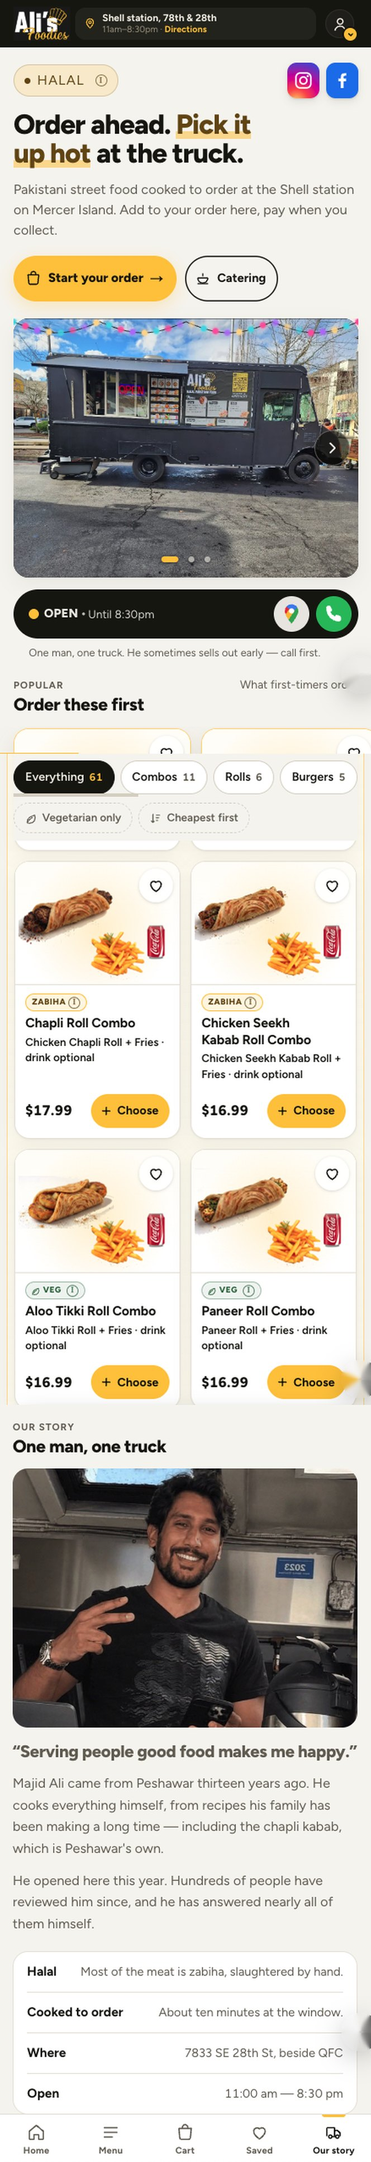
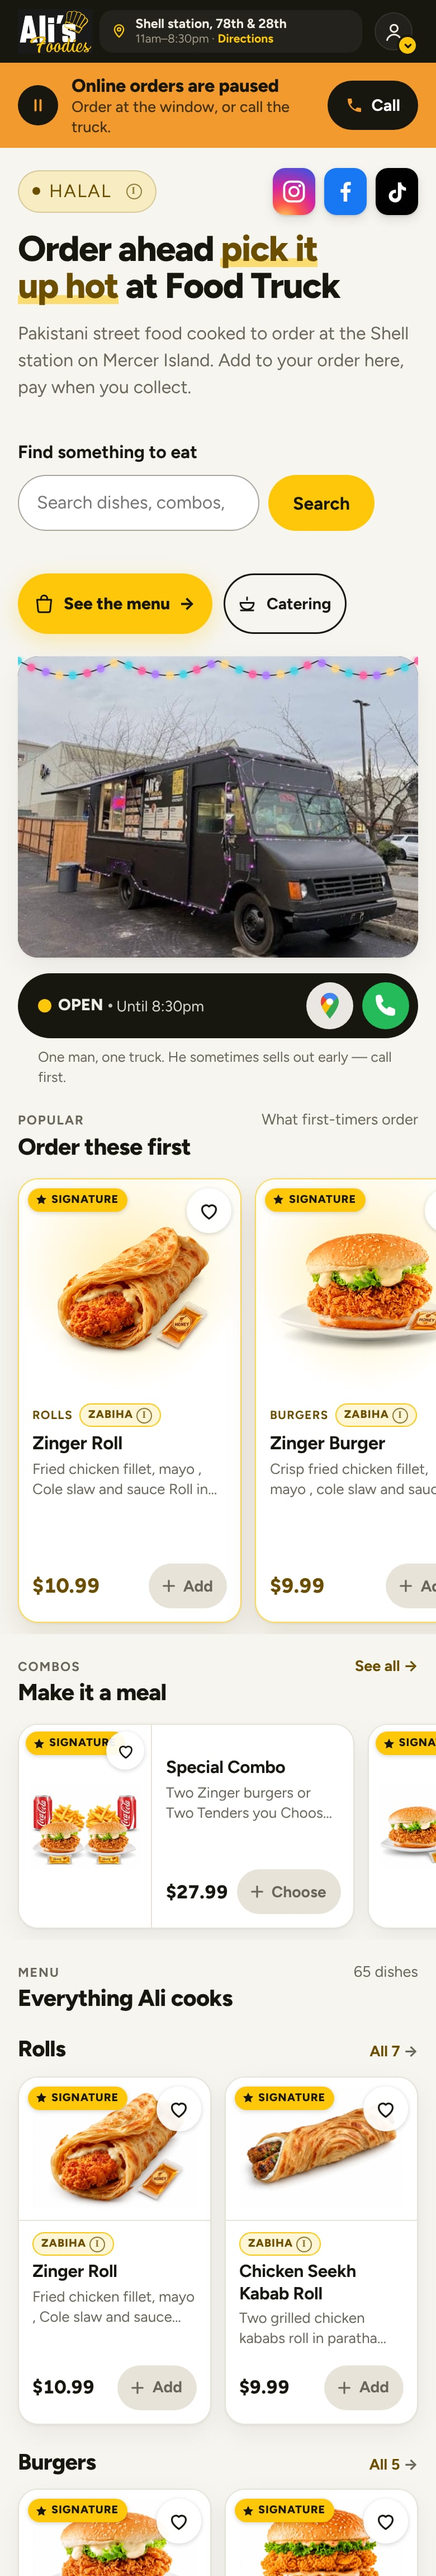
fix: recapture Ali's Foodies so no bar floats over the page
The old 'after' capture had the site's category bar painted over the
'Order these first' cards. The live site has since been fixed, so this
takes a fresh capture from alifoodies.com.

The site keeps a top bar and a bottom tab bar fixed on screen, which a
full-page capture would paint mid-page. The tab bar is now captured on
its own and the phone pins both bars while the page moves under them,
as on a real phone. The Before/After labels move above the phone so
they no longer cover the site's header. scripts/capture-ali.mjs repeats
the capture.

Claude-Session: https://claude.ai/code/session_014NT5UA3ue3Kua5hDFAEi89

diff --git a/content/studio.ts b/content/studio.ts
@@ -31,10 +31,10 @@ export const hero = {
   role: "Web design & marketing",
   /** Small labels that drift around the portrait. */
   chips: ["Web design", "Local SEO", "Social media", "Google Ads"],
-  /** Real work shown as the two cards behind the portrait. */
+  /** Real work shown as the two cards behind the portrait. `at` is how far down the capture the card looks. */
   fan: [
-    { src: "/images/ali-foodies/compare/after-home.jpg", width: 664, height: 3861 },
-    { src: "/images/tututor/mobile/alumnos-home.jpg", width: 720, height: 1557 },
+    { src: "/images/ali-foodies/compare/after-home.jpg", width: 780, height: 4600, at: "9%" },
+    { src: "/images/tututor/mobile/alumnos-home.jpg", width: 720, height: 1557, at: "0%" },
   ],
 };
 
@@ -263,7 +263,19 @@ export const compare = {
   place: "Food truck · Mercer Island, Washington",
   text: "Same truck, same food. Now the first thing a hungry customer sees is how to order.",
   before: { src: "/images/ali-foodies/compare/before-home.jpg", width: 664, height: 4032, label: "Before" },
-  after: { src: "/images/ali-foodies/compare/after-home.jpg", width: 664, height: 3861, label: "After" },
+  /**
+   * Captured from the live site with scripts/capture-ali.mjs. The site keeps its top bar and its bottom
+   * tab bar fixed on screen, so the phone pins them too: `head` is the height of the top bar in the
+   * capture, and `nav` is the tab bar, captured on its own.
+   */
+  after: {
+    src: "/images/ali-foodies/compare/after-home.jpg",
+    width: 780,
+    height: 4600,
+    label: "After",
+    head: 112,
+    nav: { src: "/images/ali-foodies/compare/after-nav.png", width: 780, height: 126 },
+  },
   hint: "Drag the handle",
 };
 

diff --git a/components/compare.tsx b/components/compare.tsx
@@ -88,6 +88,10 @@ export function Compare() {
           </p>
         </div>
         <div className="ba-wrap" data-reveal="right">
+          <p className="ba__labels" aria-hidden="true">
+            <span>{compare.before.label}</span>
+            <span>{compare.after.label}</span>
+          </p>
           <div
             className="ba"
             ref={frame}
@@ -115,9 +119,24 @@ export function Compare() {
                   height={compare.after.height}
                   sizes="340px"
                 />
+                {/* The new site keeps its top bar and tab bar on screen while the page moves under them. */}
+                <div
+                  className="ba__pin ba__pin--top"
+                  style={{ "--head": compare.after.head / compare.after.width } as CSSProperties}
+                  aria-hidden="true"
+                >
+                  <Image src={compare.after.src} alt="" width={compare.after.width} height={compare.after.height} sizes="340px" />
+                </div>
+                <div className="ba__pin ba__pin--bottom" aria-hidden="true">
+                  <Image
+                    src={compare.after.nav.src}
+                    alt=""
+                    width={compare.after.nav.width}
+                    height={compare.after.nav.height}
+                    sizes="340px"
+                  />
+                </div>
               </div>
-              <span className="ba__tag ba__tag--before">{compare.before.label}</span>
-              <span className="ba__tag ba__tag--after">{compare.after.label}</span>
               <div
                 className="ba__handle"
                 role="slider"

diff --git a/app/styles/sections.css b/app/styles/sections.css
@@ -509,23 +509,44 @@
   inset: 0;
   clip-path: inset(0 0 0 var(--x));
 }
-.ba__tag {
+/* What stays fixed on the real site stays fixed here: the top bar and the tab bar. */
+.ba__pin {
   position: absolute;
-  top: 14px;
-  padding: 0.25em 0.8em;
-  border-radius: 999px;
-  background: rgba(18, 17, 16, 0.78);
-  color: #fff;
-  font-size: 0.78rem;
+  left: 0;
+  right: 0;
+  overflow: hidden;
+  pointer-events: none;
+}
+.ba__pin img {
+  width: 100%;
+  max-width: none;
+  height: auto;
+}
+.ba__pin--top {
+  top: 0;
+  height: calc(100cqw * var(--head));
+}
+.ba__pin--bottom {
+  bottom: 0;
+  box-shadow: 0 -1px 0 rgba(18, 17, 16, 0.08);
+}
+.ba__labels {
+  display: flex;
+  justify-content: space-between;
+  width: min(76vw, 330px);
+  padding-inline: 6px;
+  font-size: 0.84rem;
   font-weight: 500;
 }
-.ba__tag--before {
-  left: 14px;
+.ba__labels span {
+  padding: 0.25em 0.9em;
+  border: 1px solid var(--line-2);
+  border-radius: 999px;
+  background: #fff;
 }
-.ba__tag--after {
-  right: 14px;
+.ba__labels span:last-child {
+  border-color: var(--gold);
   background: var(--gold);
-  color: var(--ink);
 }
 .ba__handle {
   position: absolute;

diff --git a/components/hero.tsx b/components/hero.tsx
@@ -65,7 +65,15 @@ export function Hero() {
       <div className="fan">
         {hero.fan.map((shot, i) => (
           <div className={`fan__card fan__card--${i === 0 ? "l" : "r"}`} key={shot.src} aria-hidden="true">
-            <Image src={shot.src} alt="" width={shot.width} height={shot.height} sizes="(min-width: 900px) 300px, 50vw" loading="eager" />
+            <Image
+              src={shot.src}
+              alt=""
+              width={shot.width}
+              height={shot.height}
+              sizes="(min-width: 900px) 300px, 50vw"
+              loading="eager"
+              style={{ objectPosition: `50% ${shot.at}` }}
+            />
           </div>
         ))}
         <figure className="fan__me">
